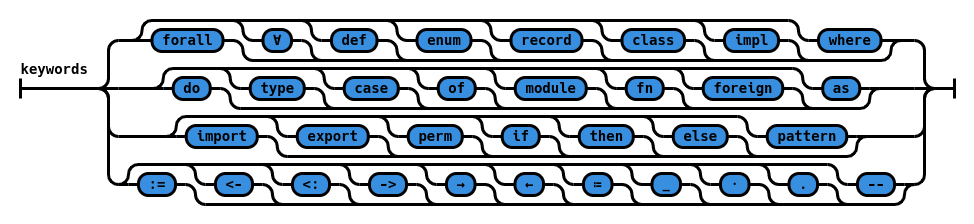
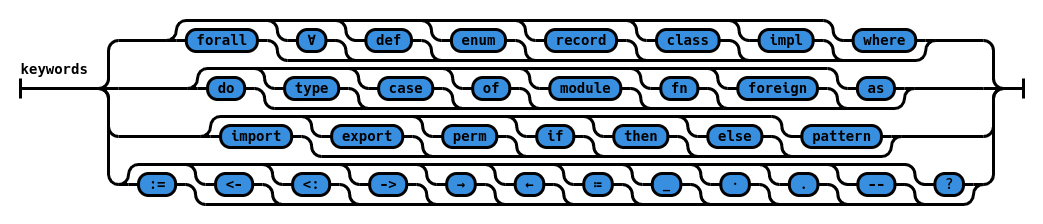
make '?' a keyword

Changed region(s): [[0.0, 0.0625, 0.9856, 0.9375], [0.4928, 0.4375, 0.5236, 0.4688]]

diff --git a/railroad-diagrams.py b/railroad-diagrams.py
@@ -698,7 +698,8 @@ def zilch_keywords():
 			Terminal('_'),
 			Terminal('·'),
 			Terminal('.'),
-			Terminal('--')
+			Terminal('--'),
+			Terminal('?')
 		)
 	)
 
@@ -1314,4 +1315,4 @@ def zilch_impl():
 	return mk_diagram2('type-class-impl', inner)
 
 
-zilch_function_declaration().writeSvg(sys.stdout.write)
+zilch_keywords().writeSvg(sys.stdout.write)

diff --git a/part1-zilch.tex b/part1-zilch.tex
@@ -85,7 +85,7 @@ Mixfix operators also do not allow keywords as backbones (that is, \texttt{\_->\
 \begin{figure}[H]
   \centering
 
-  \scalebox{.5}{
+  \scalebox{.4}{
     \includegraphics{zilch/lexicon/keywords}
   }
   \\
